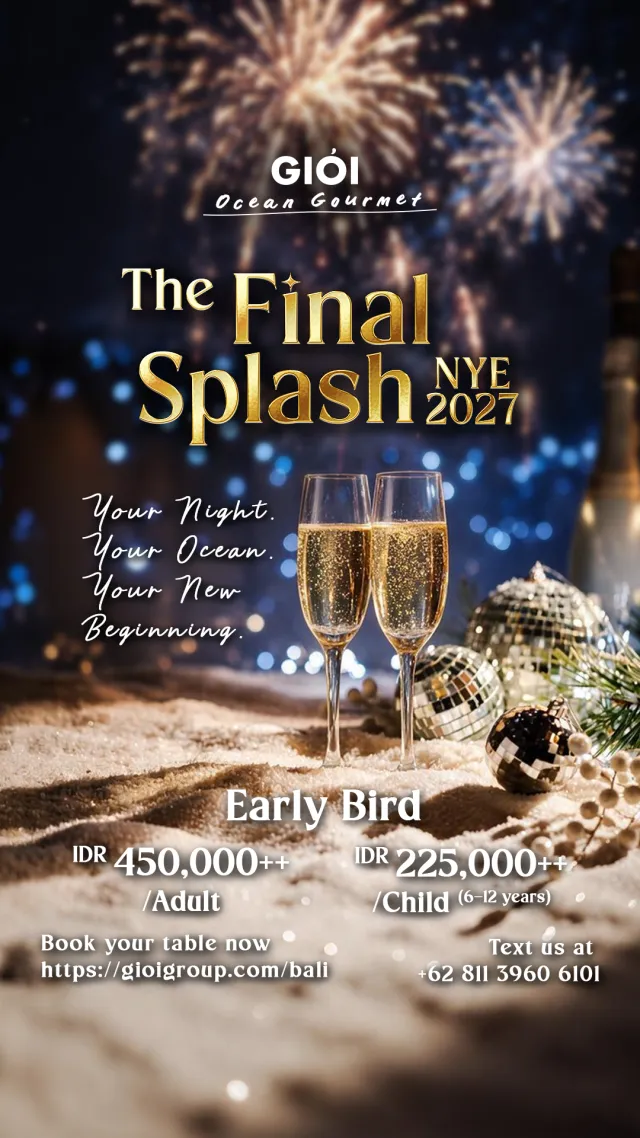
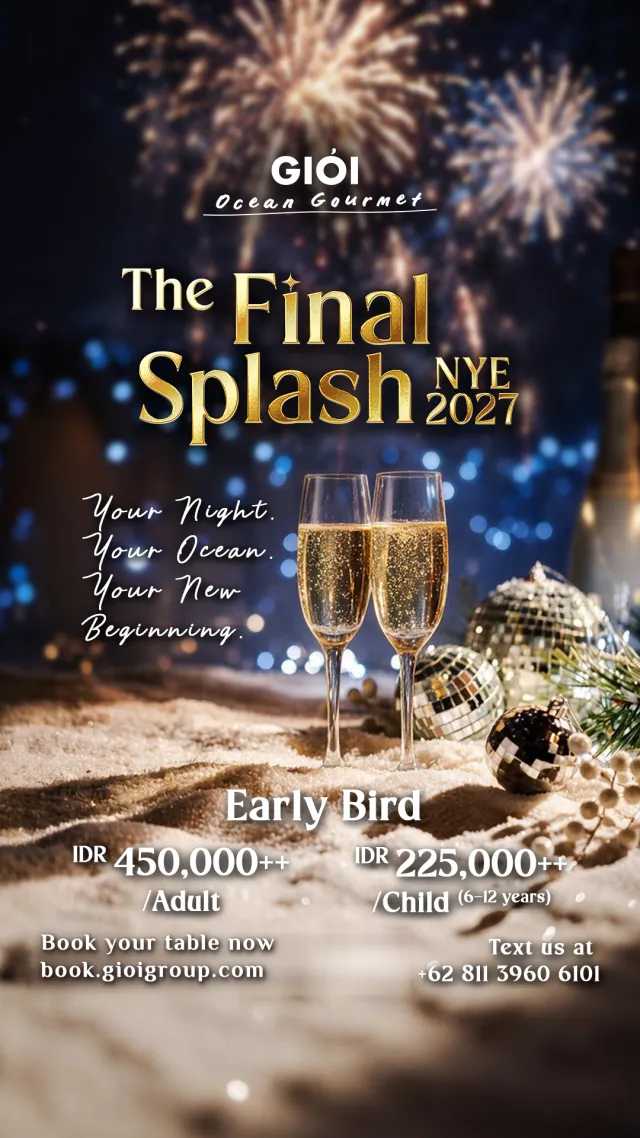
refactor: update NYE promo details and improve admin notice settings UI

Changed region(s): [[0.0625, 0.7996, 0.6562, 0.8919]]

diff --git a/apps/web/components/NyePromo.vue b/apps/web/components/NyePromo.vue
@@ -2,10 +2,8 @@
 import { onBeforeUnmount, onMounted, ref } from 'vue'
 import { PhX } from '@phosphor-icons/vue'
 
-defineProps<{ bookHref: string }>()
-
 // One campaign, hardcoded. Bump `id` for the next promo so returning guests see it again.
-const PROMO = { id: 'nye-2027', endsAt: '2027-01-01T00:00:00+08:00' }
+const PROMO = { id: 'nye-2027', endsAt: '2027-01-01T00:00:00+08:00', href: 'https://book.gioigroup.com/bali/book?date=2026-12-31&party=2' }
 const KEY = `promo-seen:${PROMO.id}`
 
 const live = Date.now() < Date.parse(PROMO.endsAt)
@@ -36,16 +34,16 @@ onBeforeUnmount(() => document.removeEventListener('keydown', onKey))
   <template v-if="live">
     <div class="bg-sun text-navy">
       <div class="mx-auto flex max-w-7xl flex-wrap items-center justify-center gap-x-4 gap-y-1 px-4 py-2 text-center text-sm font-medium md:px-8">
-        <span><strong class="font-extrabold">The Final Splash NYE 2027</strong> · Early Bird from IDR 450,000++</span>
-        <a :href="bookHref" class="inline-flex min-h-8 items-center font-extrabold underline underline-offset-4 hover:no-underline" @click="track('promo_banner_clicked')">Book your table</a>
+        <span><strong class="font-extrabold">The Final Splash NYE 2027</strong> · Early Bird from IDR 450,000++ until 10 Dec</span>
+        <a :href="PROMO.href" class="inline-flex min-h-8 items-center font-extrabold underline underline-offset-4 hover:no-underline" @click="track('promo_banner_clicked')">Book your table</a>
       </div>
     </div>
     <Transition enter-active-class="transition duration-200 ease-out" enter-from-class="opacity-0" leave-active-class="transition duration-150 ease-in" leave-to-class="opacity-0">
       <div v-if="popup" class="fixed inset-0 z-50 flex items-center justify-center bg-black/80 p-4" role="dialog" aria-modal="true" aria-label="The Final Splash NYE 2027" @click.self="close">
         <div class="relative max-h-full">
           <button type="button" class="absolute -right-2 -top-2 z-10 grid size-11 place-items-center rounded-full bg-white text-navy shadow-lg focus-visible:outline focus-visible:outline-2 focus-visible:outline-sun" aria-label="Close" @click="close"><PhX :size="20" weight="bold" aria-hidden="true" /></button>
-          <img src="/images/promo/nye-2027.webp" srcset="/images/promo/nye-2027-640.webp 640w, /images/promo/nye-2027.webp 1080w" sizes="(min-width: 768px) 45svh, 90vw" alt="The Final Splash, NYE 2027 at GIOI Ocean Gourmet. Early Bird IDR 450,000++ per adult, IDR 225,000++ per child (6 to 12 years)." width="1080" height="1920" class="max-h-[calc(100svh-6.5rem)] w-auto rounded-surface object-contain" />
-          <a :href="bookHref" class="btn mt-3 w-full bg-sun text-navy hover:bg-sand" @click="track('promo_popup_cta_clicked')">Book your table</a>
+          <img src="/images/promo/nye-2027.webp" srcset="/images/promo/nye-2027-640.webp 640w, /images/promo/nye-2027.webp 1080w" sizes="(min-width: 768px) 45svh, 90vw" alt="The Final Splash, NYE 2027 at GIOI Ocean Gourmet. Early Bird until 10 December: IDR 450,000++ per adult, IDR 225,000++ per child (6 to 12 years)." width="1080" height="1920" class="max-h-[calc(100svh-6.5rem)] w-auto rounded-surface object-contain" />
+          <a :href="PROMO.href" class="btn mt-3 w-full bg-sun text-navy hover:bg-sand" @click="track('promo_popup_cta_clicked')">Book your table</a>
         </div>
       </div>
     </Transition>

diff --git a/apps/web/pages/admin/settings.vue b/apps/web/pages/admin/settings.vue
@@ -36,6 +36,7 @@ function flash() { saved.value = `Saved at ${new Date().toLocaleTimeString()}`; 
 
 const clone = <T>(v: T): T => JSON.parse(JSON.stringify(v))
 const draft = ref<VenueSettings | null>(null)
+const noticeIncomplete = computed(() => !!draft.value?.noticeEventName?.trim() !== !!draft.value?.noticeEventTime)
 watch(() => venue.value, (val) => { if (val) draft.value = clone(val) }, { deep: true })
 
 const opening = ref<OpeningHoursRow[]>([])
@@ -288,26 +289,26 @@ definePageMeta({ middleware: ['auth', 'admin'] })
 							<input v-model="draft!.noticeEnabled" type="checkbox" class="h-5 w-5 accent-[rgb(var(--accent))]" />
 							<span>Enable special notice</span>
 						</label>
-						<div v-if="draft!.noticeEnabled" class="grid gap-4 sm:grid-cols-2">
+						<div v-if="draft!.noticeEnabled" class="grid gap-3 sm:grid-cols-3">
 							<div>
 								<label class="label">Notice date</label>
 								<DatePicker :model-value="draft!.noticeDate ?? ''" @update:model-value="draft!.noticeDate = $event" />
 							</div>
 							<div>
-								<label class="label" for="event-time">Event time</label>
-								<TimePicker id="event-time" :model-value="draft!.noticeEventTime ?? ''" @update:model-value="draft!.noticeEventTime = $event" />
+								<label class="label" for="event-time">Event time <span class="text-muted">(required with name)</span></label>
+								<TimePicker id="event-time" :model-value="draft!.noticeEventTime ?? ''" :aria-invalid="noticeIncomplete" :class="noticeIncomplete && '!border-danger'" @update:model-value="draft!.noticeEventTime = $event" />
 							</div>
 							<div>
 								<label class="label" for="event-name">Event name</label>
 								<input id="event-name" v-model="draft!.noticeEventName" class="field" placeholder="e.g. NYE Dinner &amp; Party" />
 							</div>
-							<div class="sm:col-span-2 space-y-2">
-								<label class="label" for="notice-title">Notice popup</label>
-								<input id="notice-title" v-model="draft!.noticeTitle" class="field font-semibold" placeholder="Headline, e.g. New Year's Eve 2026 special policy" />
-								<textarea v-model="draft!.noticeText" rows="5" class="field" aria-label="Notice message" placeholder="Message" />
+							<div class="sm:col-span-3 space-y-1.5">
+								<label class="label" for="notice-title">Popup headline</label>
+								<input id="notice-title" v-model="draft!.noticeTitle" class="field font-semibold placeholder:font-normal" placeholder="e.g. New Year's Eve 2026 special policy" />
+								<label class="label" for="notice-text">Popup message</label>
+								<textarea id="notice-text" v-model="draft!.noticeText" rows="3" class="field" />
 							</div>
-							<p v-if="!!draft!.noticeEventName?.trim() !== !!draft!.noticeEventTime" class="text-xs text-danger sm:col-span-2">Set both an event name and time, or the normal slots stay.</p>
-							<p v-else class="text-xs text-muted sm:col-span-2">With an event name and time, guests see only that one slot on the notice date. The notice text shows in the popup and under the slot.</p>
+							<p class="text-xs text-muted sm:col-span-3">With an event name and time, guests see only that one slot on the notice date. The notice text shows in the popup and under the slot.</p>
 						</div>
 					</div>
 				</div>

diff --git a/apps/web/pages/[venue]/index.vue b/apps/web/pages/[venue]/index.vue
@@ -67,7 +67,7 @@ onBeforeUnmount(() => ctx?.revert())
 
 <template>
   <div ref="root" class="overflow-x-clip">
-    <NyePromo v-if="venue === 'bali'" :book-href="bookHref" />
+    <NyePromo v-if="venue === 'bali'" />
     <section data-hero class="relative isolate z-10 flex min-h-[100svh] flex-col bg-navy text-white">
       <header class="relative z-20">
         <div class="mx-auto flex h-16 max-w-7xl items-center justify-between px-4 md:px-8">
